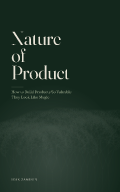
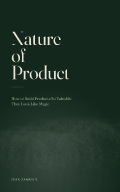
Checkpoint 2: lock master — green lead, graph-geometrized haze + micro-fixes
- Motif: geometrized into a GRAPH (angle-snap 15deg + cross-links -> loops, not a
  tree) to kill the biological/Nature-mag read; G2 "lattice" locked (G1/G3 dials)
- Micro-fixes: +3.5%h air under title-rule; haze fade 0.60->0.64; author bottom
  margin = left margin
- Title Book 390, haze .12, all-serif author caps (Checkpoint-2 decisions)
- Verified 120/60px + grayscale + blur (exports/thumbnails/_test-sheet.png)
- Master locked: src/covers/ebook.svg; design.md + changelog updated

Changed region(s): [[0.1, 0.4688, 0.6, 0.5625]]

diff --git a/design.md b/design.md
@@ -42,15 +42,20 @@ All instances baked static (`scripts/build-fonts.py`) with unique family names.
 - Subtitle below the rule; author baseline at `h − margin`.
 - Generous lower field (editorial), motif lives there.
 
-## Motif (locked)
+## Motif (locked — G2 "lattice")
 
-`hazeFractal` **structured** mode (fixed branch angle 0.38, ratio 0.72): self-similar,
-reads as structure not nature. opacity 0.12, blur 3.5, depth 9, 15 roots across the
-bottom, `reach 0.10`, **vertical fade to 0.60·h** (dense low, gone before the title).
-Plus `softLight` pool (lower-center, offset to 0.42·w) for depth. Kept subordinate.
+`hazeFractal` **structured + geometrized into a GRAPH** so it reads as network, not a
+tree (removes the biological / Nature-magazine connotation per Checkpoint 2):
+- branch half-angle **0.46**, ratio 0.72, **angle-snap to 15° grid**, **jitter 0**
+- **cross-links 0.36** between mid-canopy nodes → loops (a tree has none = graph read)
+- opacity 0.12, blur 3.5, depth 9, **13 roots**, `reach 0.09`
+- **vertical fade to 0.64·h** (dense low, dissolves before the title)
+- `softLight` pool lower-center (offset 0.42·w, cy 0.86·h) for depth
+Dials if needed: G1 "web" (angle .40 / links .20 / roots 15) more structure; G3 "mist"
+(angle .52 / links .28) softer. opacity 0.10–0.13.
 
-## Finalists for Checkpoint 2
+## Decided at Checkpoint 2
 
-`explorations/v3-finalists/` — F1 (Display 440), F2 (Display Light 330), F3 (minimal
-haze), F4 (paper fallback). Lead = F-Book (390), rendered to `src/covers/ebook.svg`.
-Open dial for the morning: haze opacity 0.10–0.13 (currently 0.12).
+Green lead (drop paper fallback) · haze 0.12 · all-serif author caps · title Book 390.
+Micro-fixes applied: +3.5%·h air between title-rule and subtitle; haze lowered; author
+bottom margin = left margin. Master: `src/covers/ebook.svg`.

diff --git a/docs/changelog.md b/docs/changelog.md
@@ -84,3 +84,19 @@ Rubric (premium·hier·thumb·concept·shelf·orig):
 - Haze visibility: currently "discoverable" (opacity 0.12). Dial to 0.10 if you want it
   more subliminal.
 - Author line: keep all-serif caps, or switch to Inter caps for a touch more contrast?
+
+## 2026-06-14
+
+### Checkpoint 2 — decided + master locked
+- Green lead (paper fallback dropped) · haze 0.12 · all-serif author caps · title Book 390.
+- Motif geometrized into a GRAPH (angle-snap 15° + cross-links 0.36 → loops, not a tree)
+  to remove the biological/Nature-mag connotation. G2 "lattice" locked; G1/G3 as dials.
+- Micro-fixes: +3.5%·h air under the title-rule; haze fade 0.60→0.64 (more breathing);
+  author bottom margin = left margin.
+- Verified: 120px & 60px legible, grayscale hierarchy holds, dominant under blur
+  (exports/thumbnails/_test-sheet.png). Master: src/covers/ebook.svg.
+
+### Next (Block C)
+- Print layer 6.25×9.25 @300dpi CMYK + bleed; soft-proof green (#13271C) with
+  PSOcoated_v3 (watch saturation; lift RGB brightness if it dies); outlined PDF
+  (separate, master stays live); ebook final 1600×2560; package + tag v1.0.